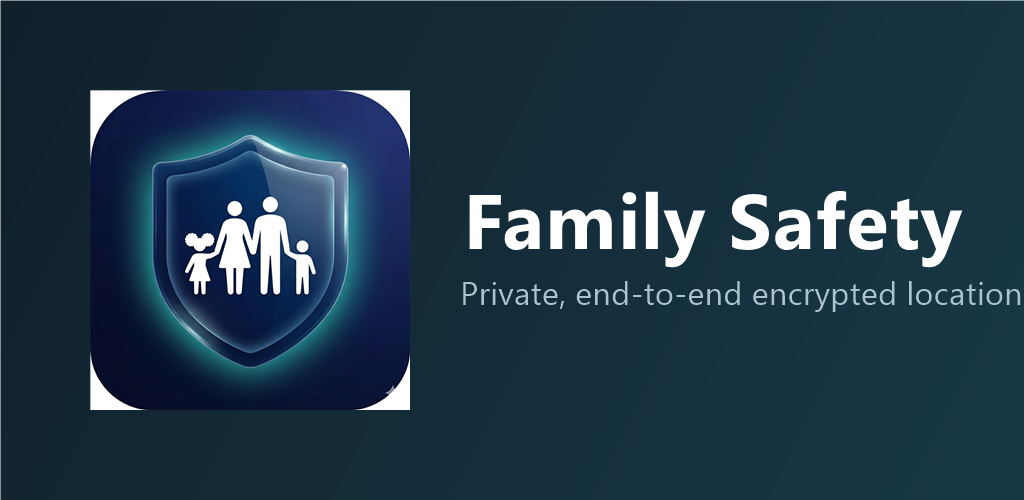
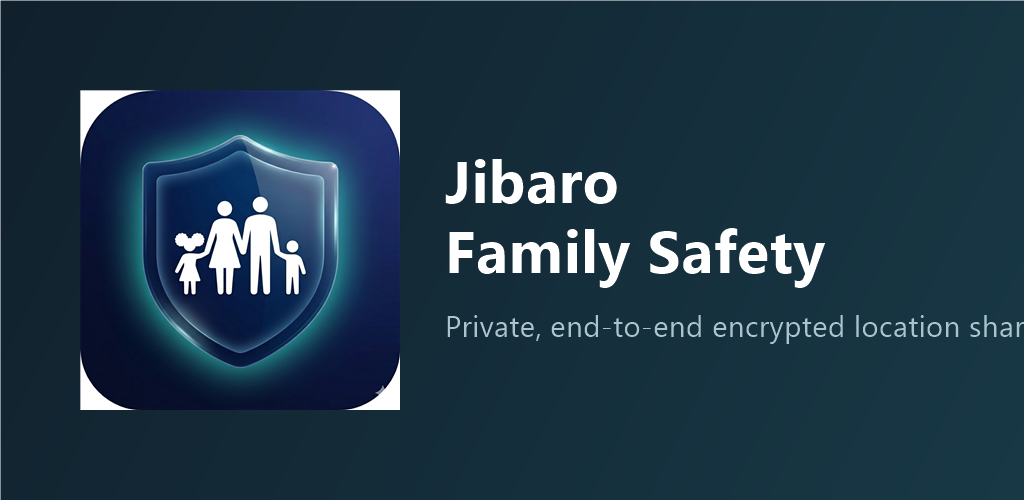
Rename app to Jibaro Family Safety across UI, docs, and store assets

diff --git a/app/src/main/java/com/example/familysafety/util/OemBatteryHelper.kt b/app/src/main/java/com/example/familysafety/util/OemBatteryHelper.kt
@@ -248,80 +248,80 @@ object OemBatteryHelper {
             "Tap Battery.",
             "Tap Background usage limits.",
             "Tap Never sleeping apps.",
-            "Tap the + button and add FamilySafety to the list."
+            "Tap the + button and add Jibaro Family Safety to the list."
         )
 
         Oem.XIAOMI -> listOf(
             "Open Settings → Apps → Manage apps.",
-            "Find and tap FamilySafety.",
+            "Find and tap Jibaro Family Safety.",
             "Tap Battery saver and choose No restrictions.",
-            "Go back to FamilySafety → Other permissions.",
+            "Go back to Jibaro Family Safety → Other permissions.",
             "Enable Autostart so MIUI does not block background launch."
         )
 
         Oem.HUAWEI -> listOf(
-            "Open Settings → Apps → FamilySafety.",
+            "Open Settings → Apps → Jibaro Family Safety.",
             "Tap Battery.",
             "Set App launch to Manage manually.",
             "Enable Auto-launch, Secondary launch, and Run in background.",
-            "Also open Phone Manager → Startup manager and enable FamilySafety."
+            "Also open Phone Manager → Startup manager and enable Jibaro Family Safety."
         )
 
         Oem.HONOR -> listOf(
-            "Open Settings → Apps → FamilySafety.",
+            "Open Settings → Apps → Jibaro Family Safety.",
             "Tap Battery.",
             "Set App launch to Manage manually.",
             "Enable Auto-launch and Run in background.",
-            "Open Phone Manager → Startup manager and enable FamilySafety."
+            "Open Phone Manager → Startup manager and enable Jibaro Family Safety."
         )
 
         Oem.OPPO -> listOf(
             "Open Settings → Battery → Battery optimization.",
-            "Find FamilySafety and choose Don't optimize.",
+            "Find Jibaro Family Safety and choose Don't optimize.",
             "Open Security Center → Privacy Permissions.",
-            "Tap Startup manager and enable FamilySafety.",
-            "Also enable Background app refresh for FamilySafety."
+            "Tap Startup manager and enable Jibaro Family Safety.",
+            "Also enable Background app refresh for Jibaro Family Safety."
         )
 
         Oem.ONEPLUS -> listOf(
             "Open Settings → Battery → Battery optimization.",
-            "Find FamilySafety and choose Don't optimize.",
-            "Open Settings → Apps → FamilySafety → Battery.",
+            "Find Jibaro Family Safety and choose Don't optimize.",
+            "Open Settings → Apps → Jibaro Family Safety → Battery.",
             "Enable Allow background activity.",
-            "If present, open Security → App freeze and unfreeze FamilySafety."
+            "If present, open Security → App freeze and unfreeze Jibaro Family Safety."
         )
 
         Oem.VIVO -> listOf(
             "Open iManager (or Settings → More → Permission manager).",
-            "Tap Autostart manager and enable FamilySafety.",
+            "Tap Autostart manager and enable Jibaro Family Safety.",
             "Go back and tap Background app refresh.",
-            "Enable FamilySafety.",
+            "Enable Jibaro Family Safety.",
             "Open Settings → Battery → High background power consumption.",
-            "Add FamilySafety to the allow list."
+            "Add Jibaro Family Safety to the allow list."
         )
 
         Oem.REALME -> listOf(
             "Open Settings → Battery → Battery optimization.",
-            "Find FamilySafety and choose Don't optimize.",
+            "Find Jibaro Family Safety and choose Don't optimize.",
             "Open Security Center → App management → Startup manager.",
-            "Enable FamilySafety.",
-            "Also enable Background app refresh for FamilySafety."
+            "Enable Jibaro Family Safety.",
+            "Also enable Background app refresh for Jibaro Family Safety."
         )
 
         Oem.MEIZU -> listOf(
             "Open Settings → Battery → Battery saver.",
-            "Tap Standby power consumption and disable restrictions for FamilySafety.",
-            "Open Settings → Apps → FamilySafety → Permissions.",
+            "Tap Standby power consumption and disable restrictions for Jibaro Family Safety.",
+            "Open Settings → Apps → Jibaro Family Safety → Permissions.",
             "Enable Autostart.",
             "Open Flyme Security → Permission manager → Background manage.",
-            "Enable FamilySafety."
+            "Enable Jibaro Family Safety."
         )
 
         Oem.GENERIC -> listOf(
             "Open Settings → Battery.",
             "Look for Battery optimization or Unrestricted access.",
-            "Find FamilySafety in the list and set it to Don't optimize.",
-            "If your phone has an Autostart or Background app permission, enable it for FamilySafety."
+            "Find Jibaro Family Safety in the list and set it to Don't optimize.",
+            "If your phone has an Autostart or Background app permission, enable it for Jibaro Family Safety."
         )
     }
 }

diff --git a/docs/privacy.html b/docs/privacy.html
@@ -3,7 +3,7 @@
 <head>
 <meta charset="utf-8">
 <meta name="viewport" content="width=device-width, initial-scale=1">
-<title>Family Safety — Privacy Policy</title>
+<title>Jibaro Family Safety — Privacy Policy</title>
 <style>
   :root {
     --bg: #f6f8f8;
@@ -63,12 +63,12 @@
 </head>
 <body>
 <div class="wrap">
-  <div class="eyebrow">Family Safety</div>
+  <div class="eyebrow">Jibaro Family Safety</div>
   <h1>Privacy Policy</h1>
   <div class="updated">Last updated: July 6, 2026</div>
 
   <div class="lede">
-    Family Safety is a private, family-only location-sharing app built on a simple
+    Jibaro Family Safety is a private, family-only location-sharing app built on a simple
     principle: <strong>your family's location and messages belong to your family, not to
     us.</strong> We operate no accounts, no analytics, and no server that can read your data.
   </div>
@@ -114,7 +114,7 @@
   beyond the message relay described above.</p>
 
   <h2>Children</h2>
-  <p>Family Safety is intended to be set up and administered by adults. A parent or
+  <p>Jibaro Family Safety is intended to be set up and administered by adults. A parent or
   guardian may choose to install it on a child's device as part of their family group;
   the child's location is then visible only to that family group, under the same
   encryption described above.</p>
@@ -149,7 +149,7 @@
   <p>If this policy changes, the updated version will be posted at this address with a
   new date. Questions: <a href="mailto:omar@courageonpurpose.org">omar@courageonpurpose.org</a></p>
 
-  <footer>Family Safety — privacy-first, end-to-end-encrypted family location sharing</footer>
+  <footer>Jibaro Family Safety — privacy-first, end-to-end-encrypted family location sharing</footer>
 </div>
 </body>
 </html>

diff --git a/docs/index.html b/docs/index.html
@@ -3,8 +3,8 @@
 <head>
 <meta charset="utf-8">
 <meta name="viewport" content="width=device-width, initial-scale=1">
-<title>Family Safety — private, end-to-end encrypted family location sharing</title>
-<meta name="description" content="Family Safety is a privacy-first family location-sharing app. End-to-end encrypted, no accounts, no ads, no server that can read your data.">
+<title>Jibaro Family Safety — private, end-to-end encrypted family location sharing</title>
+<meta name="description" content="Jibaro Family Safety is a privacy-first family location-sharing app. End-to-end encrypted, no accounts, no ads, no server that can read your data.">
 <style>
   :root {
     --bg: #f6f8f8;
@@ -76,9 +76,9 @@
 </head>
 <body>
 <div class="wrap">
-  <div class="eyebrow">Family Safety</div>
+  <div class="eyebrow">Jibaro Family Safety</div>
   <h1>Know where your family is. Without anyone else knowing.</h1>
-  <p class="lede">Family Safety is a private location-sharing and messaging app for families.
+  <p class="lede">Jibaro Family Safety is a private location-sharing and messaging app for families.
   Everything is end-to-end encrypted between your family's own devices — there are no
   accounts, no ads, and no company server that can read your locations or messages.</p>
 
@@ -108,7 +108,7 @@
     source code is public</a>. Read it, build it yourself, or point out something we got wrong.</p>
   </div>
 
-  <footer>Family Safety · <a href="privacy.html">Privacy policy</a> ·
+  <footer>Jibaro Family Safety · <a href="privacy.html">Privacy policy</a> ·
   <a href="https://github.com/Singularity86/FamilySafety">GitHub</a> ·
   <a href="mailto:omar@courageonpurpose.org">omar@courageonpurpose.org</a></footer>
 </div>

diff --git a/app/src/main/java/com/example/familysafety/onboarding/PermissionOnboardingFlow.kt b/app/src/main/java/com/example/familysafety/onboarding/PermissionOnboardingFlow.kt
@@ -130,10 +130,10 @@ fun PermissionOnboardingFlow(onComplete: () -> Unit) {
             STEP_LOCATION -> PermissionRationaleCard(
                 permission = Manifest.permission.ACCESS_FINE_LOCATION,
                 title = "Location Access",
-                rationale = "FamilySafety shares your location with your family group in real time. " +
+                rationale = "Jibaro Family Safety shares your location with your family group in real time. " +
                     "Your location is end-to-end encrypted — only your family can ever see it.",
                 coaching = "When prompted, choose 'While using the app' — " +
-                    "this lets your family see your location whenever FamilySafety is open.",
+                    "this lets your family see your location whenever Jibaro Family Safety is open.",
                 onRequestPermission = {
                     locationLauncher.launch(
                         arrayOf(
@@ -150,7 +150,7 @@ fun PermissionOnboardingFlow(onComplete: () -> Unit) {
                 title = "Always-On Location",
                 // Wording deliberately follows Google Play's prominent-disclosure
                 // formula for background location; changing it can fail app review.
-                rationale = "FamilySafety collects location data to enable real-time " +
+                rationale = "Jibaro Family Safety collects location data to enable real-time " +
                     "location sharing with your family group, even when the app is " +
                     "closed or not in use. Your location is end-to-end encrypted, is " +
                     "shared only with your family members, and is never sold or given " +

diff --git a/app/src/main/java/com/example/familysafety/location/ServiceWatchdogWorker.kt b/app/src/main/java/com/example/familysafety/location/ServiceWatchdogWorker.kt
@@ -131,7 +131,7 @@ class ServiceWatchdogWorker(
             PendingIntent.FLAG_UPDATE_CURRENT or PendingIntent.FLAG_IMMUTABLE
         )
         val notification = NotificationCompat.Builder(appContext, BATTERY_ALERT_CHANNEL_ID)
-            .setContentTitle("FamilySafety battery protection disabled")
+            .setContentTitle("Jibaro Family Safety battery protection disabled")
             .setContentText("Location sharing may stop. Tap to restore.")
             .setSmallIcon(R.drawable.ic_notification)
             .setPriority(NotificationCompat.PRIORITY_HIGH)
@@ -159,7 +159,7 @@ class ServiceWatchdogWorker(
     private fun buildForegroundInfo(): ForegroundInfo {
         ensureChannel()
         val notification: Notification = NotificationCompat.Builder(appContext, CHANNEL_ID)
-            .setContentTitle("FamilySafety")
+            .setContentTitle("Jibaro Family Safety")
             .setContentText("Checking location service…")
             .setSmallIcon(R.drawable.ic_notification)
             .setOngoing(true)

diff --git a/app/src/main/java/com/example/familysafety/main/ConnectionBadge.kt b/app/src/main/java/com/example/familysafety/main/ConnectionBadge.kt
@@ -96,7 +96,7 @@ fun ConnectionBadge(
         message = when (mode) {
             MainViewModel.ConnectionMode.LAN ->
                 routeSummary(
-                    leading = "Working locally. FamilySafety can reach a family device directly on this network.",
+                    leading = "Working locally. Jibaro Family Safety can reach a family device directly on this network.",
                     routeHealth = routeHealth
                 )
             MainViewModel.ConnectionMode.RELAY ->
@@ -106,7 +106,7 @@ fun ConnectionBadge(
                 )
             MainViewModel.ConnectionMode.OFFLINE ->
                 routeSummary(
-                    leading = "Needs attention. FamilySafety does not currently have a local device or relay route.",
+                    leading = "Needs attention. Jibaro Family Safety does not currently have a local device or relay route.",
                     routeHealth = routeHealth
                 )
             MainViewModel.ConnectionMode.MIXED ->

diff --git a/app/src/main/java/com/example/familysafety/main/SyncIndicator.kt b/app/src/main/java/com/example/familysafety/main/SyncIndicator.kt
@@ -61,7 +61,7 @@ fun SyncIndicator(
         }
         is GroupSyncManager.SyncState.Syncing -> SyncInfoSlot(
             title = "Syncing family state",
-            message = "Working. FamilySafety is checking the family list, member keys, and group version.",
+            message = "Working. Jibaro Family Safety is checking the family list, member keys, and group version.",
             modifier = modifier
         ) {
             SyncChip(
@@ -91,7 +91,7 @@ fun SyncIndicator(
         }
         is GroupSyncManager.SyncState.Error -> SyncInfoSlot(
             title = "Sync error",
-            message = "Needs attention. FamilySafety could not complete the latest family-list sync.",
+            message = "Needs attention. Jibaro Family Safety could not complete the latest family-list sync.",
             modifier = modifier
         ) {
             SyncChip(

diff --git a/app/src/main/java/com/example/familysafety/onboarding/GenerateMnemonicScreen.kt b/app/src/main/java/com/example/familysafety/onboarding/GenerateMnemonicScreen.kt
@@ -95,7 +95,7 @@ fun GenerateMnemonicScreen(
                         modifier = Modifier.size(18.dp).padding(top = 2.dp)
                     )
                     Text(
-                        text = "If you ever reinstall FamilySafety, your recovery phrase lets you " +
+                        text = "If you ever reinstall Jibaro Family Safety, your recovery phrase lets you " +
                             "restore your account. Find it anytime under Settings → Recovery Phrase.",
                         style = MaterialTheme.typography.bodySmall,
                         color = MaterialTheme.colorScheme.onSurfaceVariant

diff --git a/app/src/main/java/com/example/familysafety/main/SecurityScreen.kt b/app/src/main/java/com/example/familysafety/main/SecurityScreen.kt
@@ -120,12 +120,12 @@ private fun SecurityVerdictCard(
         )
         waitingForSync -> Triple(
             "Waiting for devices",
-            "FamilySafety is checking the family list or waiting for other devices to answer.",
+            "Jibaro Family Safety is checking the family list or waiting for other devices to answer.",
             Color(0xFFFF9800)
         )
         else -> Triple(
             "All clear",
-            "FamilySafety has a working route and no current key issues.",
+            "Jibaro Family Safety has a working route and no current key issues.",
             GreenOk
         )
     }

diff --git a/app/src/main/java/com/example/familysafety/onboarding/BatteryOptimizationScreen.kt b/app/src/main/java/com/example/familysafety/onboarding/BatteryOptimizationScreen.kt
@@ -72,7 +72,7 @@ fun BatteryOptimizationScreen(
             )
             Spacer(modifier = Modifier.height(Spacing.sm))
             Text(
-                text = "Android can pause FamilySafety to save battery, which stops location " +
+                text = "Android can pause Jibaro Family Safety to save battery, which stops location " +
                     "sharing. Granting this exemption keeps your location visible to your family " +
                     "even when the screen is off.",
                 style = MaterialTheme.typography.bodyMedium,

diff --git a/app/src/main/java/com/example/familysafety/main/SettingsScreen.kt b/app/src/main/java/com/example/familysafety/main/SettingsScreen.kt
@@ -174,7 +174,7 @@ fun SettingsScreen(
                     Spacer(modifier = Modifier.height(8.dp))
                     Text(
                         text = "Android may pause location tracking in the background. " +
-                            "Tap below to keep FamilySafety running reliably.",
+                            "Tap below to keep Jibaro Family Safety running reliably.",
                         style = MaterialTheme.typography.bodyMedium,
                         color = MaterialTheme.colorScheme.onErrorContainer
                     )

diff --git a/app/src/main/java/com/example/familysafety/main/MapScreen.kt b/app/src/main/java/com/example/familysafety/main/MapScreen.kt
@@ -126,7 +126,7 @@ fun MapScreen(
             )
             Spacer(modifier = Modifier.height(8.dp))
             Text(
-                text = "FamilySafety needs access to your location to show you and your family members on the map.",
+                text = "Jibaro Family Safety needs access to your location to show you and your family members on the map.",
                 style = MaterialTheme.typography.bodyMedium,
                 textAlign = TextAlign.Center,
                 color = MaterialTheme.colorScheme.onSurfaceVariant
